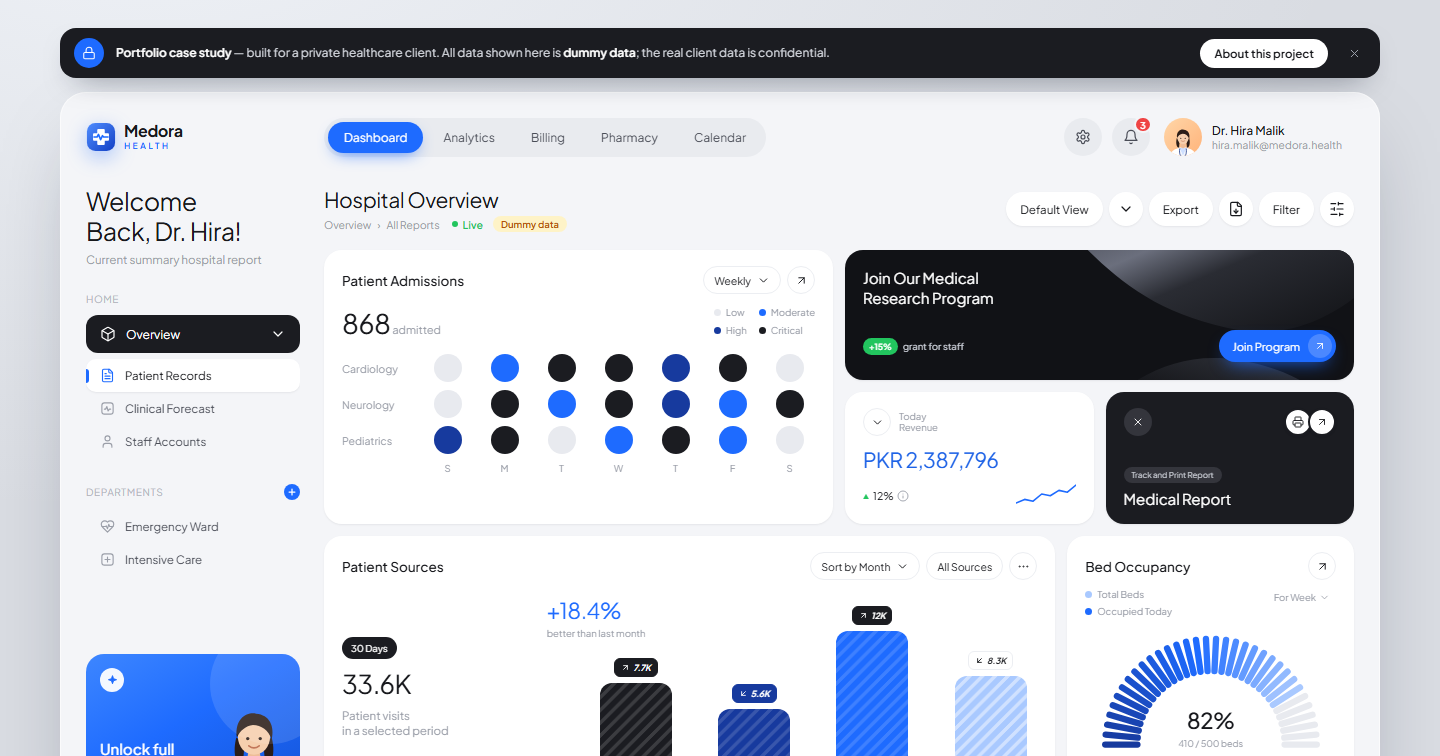
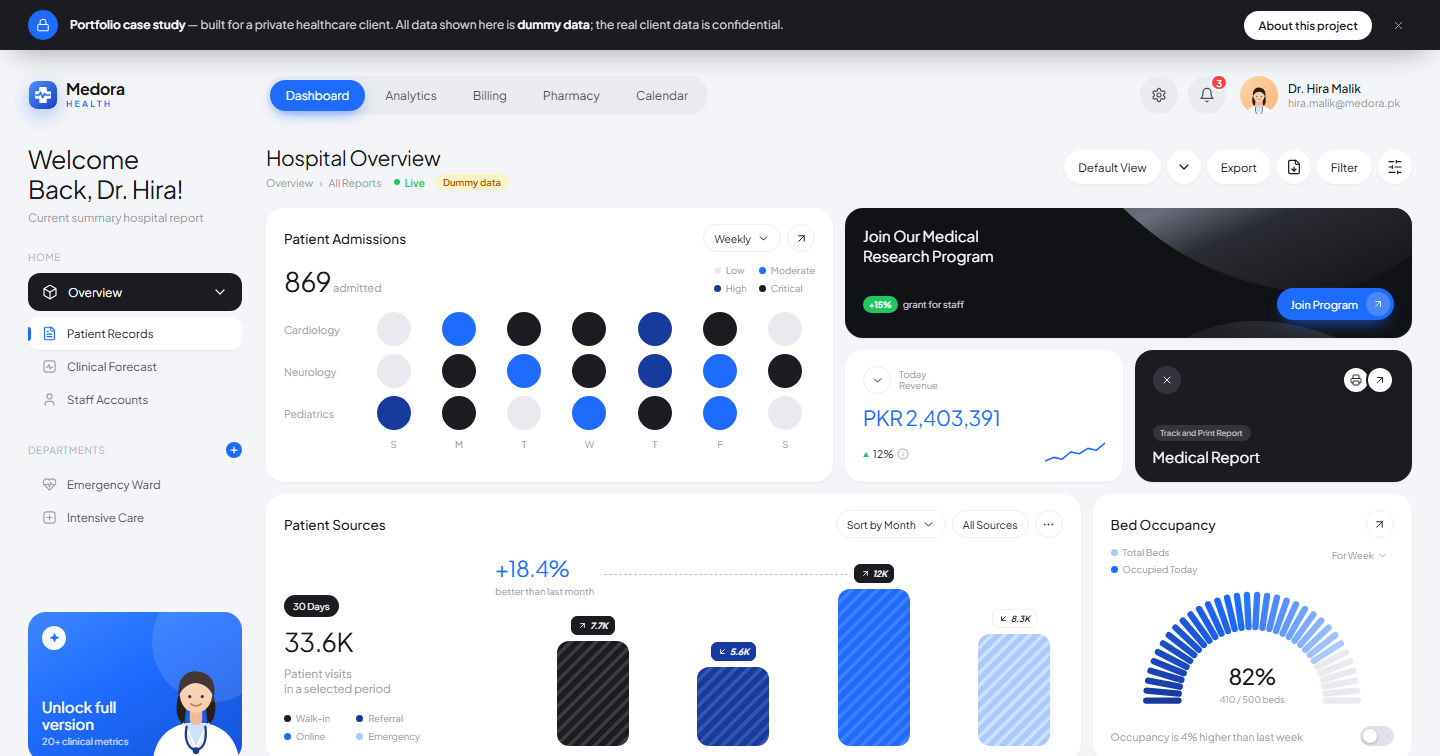
Make dashboard fill the full screen
Remove the outer page margin and rounded frame so the app spans the
whole viewport, and stretch dashboard cards to the screen height.

diff --git a/screens.css b/screens.css
@@ -316,8 +316,8 @@
 
 /* ===== Portfolio case-study notice ===== */
 .case-bar {
-  max-width: 1320px; margin: 0 auto 14px; display: flex; align-items: center; gap: 12px;
-  padding: 10px 12px 10px 14px; border-radius: 16px; background: var(--black); color: #d5d8df; font-size: 12px;
+  display: flex; align-items: center; gap: 12px;
+  padding: 10px 28px; background: var(--black); color: #d5d8df; font-size: 12px;
   box-shadow: 0 12px 30px -16px rgba(15,23,42,.6); animation: rise .7s var(--ease) both;
 }
 .case-bar p { flex: 1; line-height: 1.45; }
@@ -331,7 +331,7 @@
 .cb-x svg { width: 13px; height: 13px; }
 .case-bar.gone { animation: shrinkOut .35s var(--ease) forwards; }
 .demo-chip { margin-left: 4px; font-size: 9.5px; font-weight: 600; color: #b45309; background: #fef3c7; padding: 2px 8px; border-radius: 999px; }
-.credit { max-width: 1320px; margin: 16px auto 0; text-align: center; font-size: 11px; color: #7d828d; }
+.credit { padding: 0 28px 18px; text-align: center; font-size: 11px; color: #7d828d; }
 .credit b { color: var(--ink-2); font-weight: 600; }
 
 /* Case-study modal */
@@ -352,3 +352,20 @@
   .cs-grid { grid-template-columns: 1fr; }
 }
 @media print { .case-bar { display: none; } }
+
+/* ===== Full-screen fill on desktop: content stretches to the viewport height ===== */
+@media (min-width: 1025px) and (min-height: 700px) {
+  .app { display: flex; flex-direction: column; }
+  .layout { flex: 1; }
+  .screen.active { flex: 1; }
+  .screen[data-screen="dashboard"] .row1 { flex: 1; }
+  .screen[data-screen="dashboard"] .row2 { flex: 1.15; }
+  .admissions, .sources, .occupancy { display: flex; flex-direction: column; }
+  .admissions .dots { flex: 1; align-content: space-evenly; }
+  .dot { max-width: 34px; }
+  .sources .sources-body { flex: 1; }
+  .sources .chart { height: auto; min-height: 196px; }
+  .occupancy .gauge-wrap { margin: auto; max-width: 260px; }
+  .occupancy .occ-foot { margin-top: 0; }
+  .screen[data-screen="calendar"] .cal-layout { flex: 1; }
+}

diff --git a/styles.css b/styles.css
@@ -24,11 +24,13 @@
 html, body { min-height: 100%; }
 body {
   font-family: "Plus Jakarta Sans", system-ui, sans-serif;
-  background: radial-gradient(1200px 600px at 10% -10%, #eef1f6, transparent), var(--page);
+  background: var(--app);
   color: var(--ink);
   font-size: 13px;
   -webkit-font-smoothing: antialiased;
-  padding: 28px;
+  min-height: 100vh;
+  display: flex;
+  flex-direction: column;
 }
 button { font: inherit; color: inherit; background: none; border: 0; cursor: pointer; }
 svg { width: 16px; height: 16px; fill: none; stroke: currentColor; stroke-width: 1.8; stroke-linecap: round; stroke-linejoin: round; flex-shrink: 0; }
@@ -40,12 +42,10 @@ ul { list-style: none; }
 
 /* ===== App shell ===== */
 .app {
-  max-width: 1320px;
-  margin: 0 auto;
+  flex: 1;
+  width: 100%;
   background: var(--app);
-  border-radius: 26px;
-  padding: 22px 26px 26px;
-  box-shadow: 0 30px 80px -30px rgba(15, 23, 42, .35), 0 0 0 1px rgba(255,255,255,.6) inset;
+  padding: 22px 28px 20px;
 }
 
 /* Entry animation */
